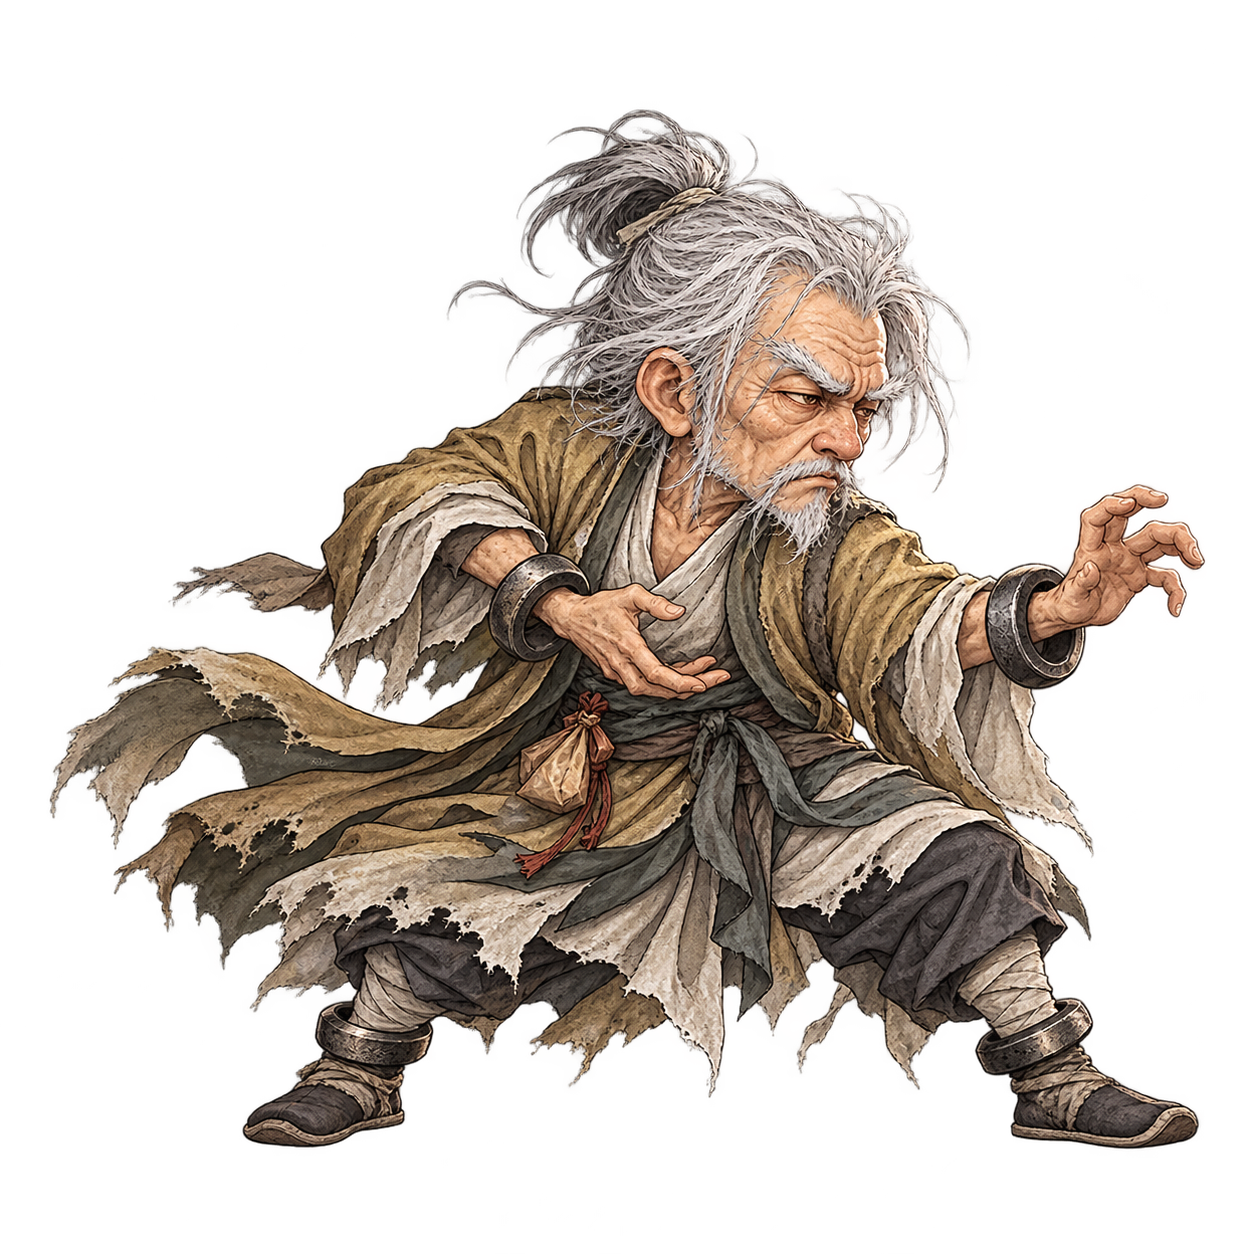
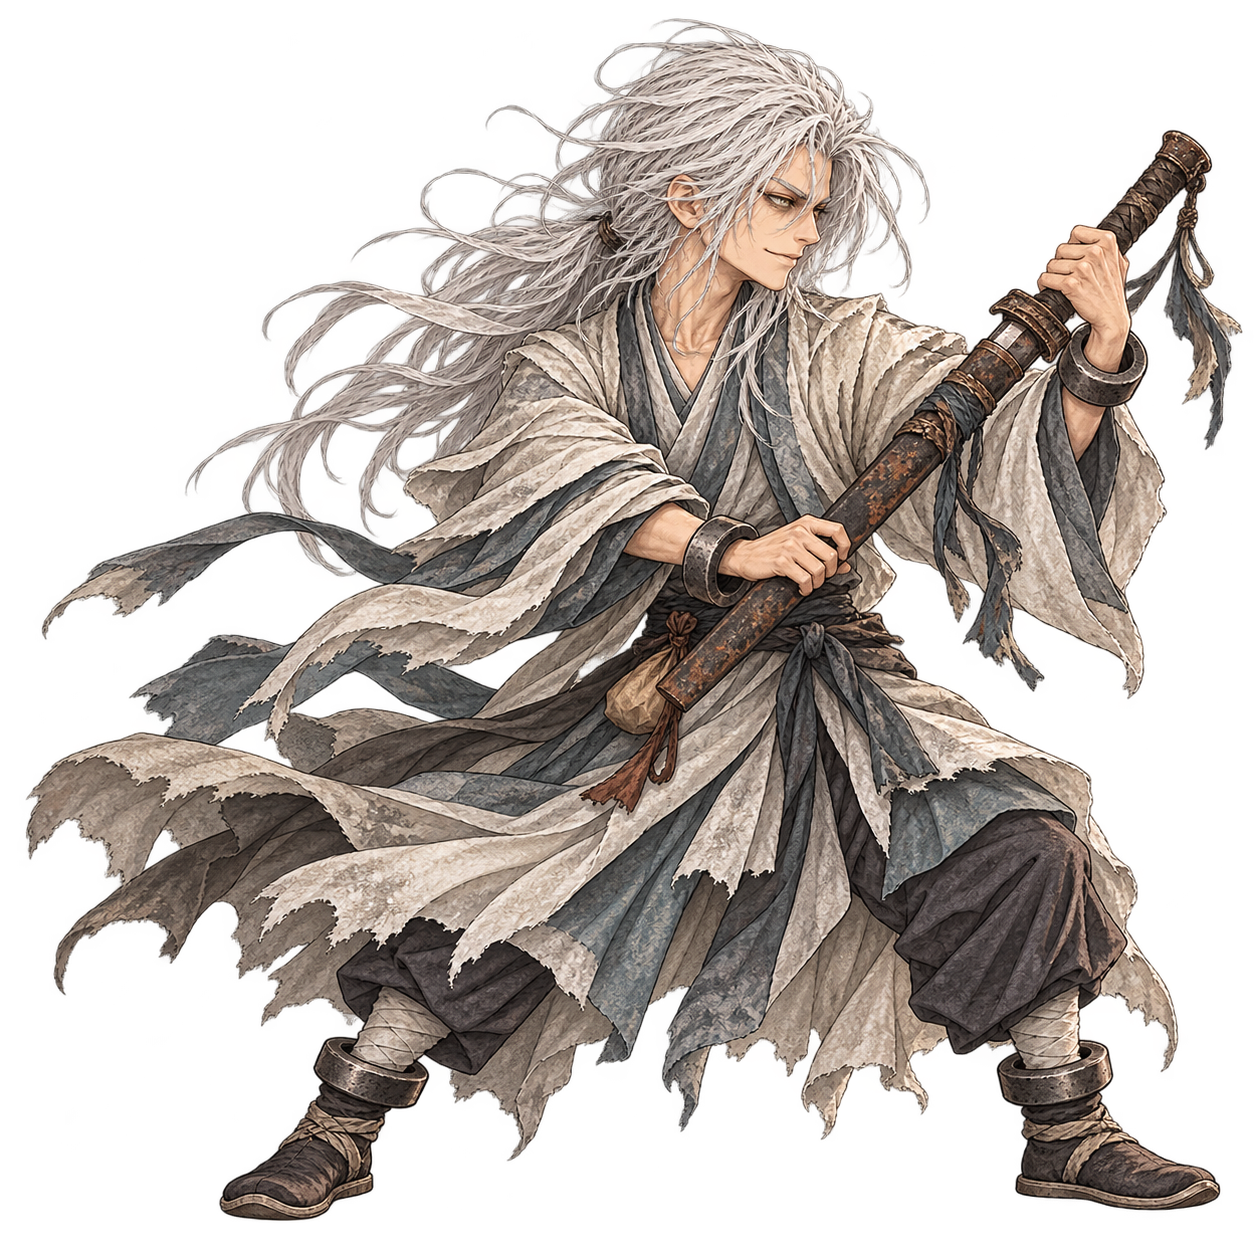
Redesign Mumyeong battle sprite with ageless features and rusted sword

diff --git a/Docs/ART_LOOKS.md b/Docs/ART_LOOKS.md
@@ -335,7 +335,7 @@
 | 인물 / Battle 키 | 원작·기존 원화에서 확인한 요소 | 이번 미술 해석 |
 |---|---|---|
 | 나일천 / `na_ilcheon` | 적포·가면·상실한 오른팔과 철갑마수 서풍의 광란, 나백천에 대한 증오(24~27권) | 쇠빛 반가면·예민한 눈·회흑색 머리, 붉은 겹옷과 크게 뻗은 단일 금속 조수. 정상 살색 손은 왼손 하나로 구분 |
-| 무명 / `mumyeong` | 육번대 노인·기억 상실·엿·봉신환·무흔권/무상장/무형검(25~27권) | 작은 마른 체구·굽은 등·깊은 주름과 큰 코, 피곤하지만 날카로운 눈·헝클어진 백발, 낡은 황토 회색 옷, 손목·발목 고리, 허리의 작은 엿 봉지와 맨손 자세 |
+| 무명 / `mumyeong` | 기억 상실·엿·봉신환·무흔권/무상장/무형검(25~27권), 최신 사용자 정정: 백발·주름 없는 40대 초중반 인상·생사안·녹슨 검과 칼집 | 아래 「무명 사용자 설정 반영」의 수정본으로 대체. 깊은 주름·굽은 등·수염·맨손 대표 자세를 제거 |
 | 칠상흔 / `chil_sangheun` | 얼굴의 일곱 상처·검은 관과 쇠사슬·반 토막 도, 죄책감과 억눌린 과거(22~24권) | 넓은 어깨·굵은 팔·투박한 수염과 상처 난 얼굴, 먹색·암갈색·암홍 복식, 관을 진 낮고 무거운 도 자세 |
 | 독고령 / 영령 / `dokgo_ryeong` | 왼눈 안대·검각의 기억과 한빙기, 현재 Standing의 검은 머리·봉황 장식·자주/먹색/올리브/백색 겹옷(3·15~17·23~24권) | 날카로운 경계의 눈매·굳은 표정·몸 가까이 붙인 수비 검 자세, 헤어·안대·복식의 기존 정체성 보존 |
 | 공손절휘 / `gongson_jeolhwi` | 19세 공손가 후계자·지존검법·가문 숙원·모용휘에 대한 경쟁심, 현재 Standing의 상아/남청/금/암홍 복식과 옥장식(19~20·23~27권) | 치켜든 눈썹·각진 턱·꼿꼿하고 성급한 검 자세, 높은 상투와 붉은 머리끈, 귀공자의 단정한 복식을 유지 |
@@ -345,3 +345,16 @@
 `gongson_ambush.ArtId`를 동일 인물의 정식 키 `gongson_jeolhwi`로 연결해 완장 습격전과 대장 선출전에서 전용 SD를 공유한다. 표시 이름·정체 공개 대사·전투 수치·진행·보상은 변경하지 않는다. 나머지 4명은 기존 ArtId로 자동 연결된다. 기존 Standing과 다른 인물의 SD·default 파일은 보존한다.
 
 검증: 5종 PNG는 모두 1254×1254 RGBA이며 실제 인물·무기 영역이 캔버스 안에 들어 있다. 네 모서리 알파는 0이며 나일천의 좌하단만 1/255의 미세 노이즈다. 이미지 중복·Unity GUID 중복이 없다. 실제 `ArtLibrary` 소스와 파일 기반 Resources 대역 검사에서 5개 키·15개 적 변형이 전용 SD로 연결되고 세 default 유형은 유지된다. Core 빌드와 기존 StoryCast 인물 식별 검사가 통과했다. Unity 에디터의 실제 합성·좌우 반전·전투 칸 크기는 확인하지 못했다.
+
+
+### 무명 사용자 설정 반영 — 2026-11-01
+
+사용자가 제공한 외모·성격 해석을 우선해 `Battle/mumyeong.png`를 다시 그렸다. 종전 노쇠한 노인 디자인은 폐기한다. 백발이지만 주름과 수염이 없는 40대 초중반의 동안, 마이페이스와 기억 혼란, 비류연도 끝을 가늠하지 못하는 실력, 생사안, 녹슨 검이나 거의 뽑히지 않은 칼집으로 공격을 막는 특징을 반영한다.
+
+- 얼굴·체형: 백발과 매끈한 성인 얼굴, 길고 각진 골격·깊은 시선, 수염 없는 턱, 굽지 않은 가벼운 자세. 청소년 얼굴이나 노인의 주름으로 표현하지 않는다.
+- 성격·위압감: 희미하고 비대칭인 미소·여유로운 시선과 힘들이지 않은 방어 자세로, 종잡기 어려우면서 비류연과 대등한 라이벌 분위기를 표현한다. 기억 혼란을 우스꽝스러운 표정으로 과장하지 않는다.
+- 생사안: 옅은 회녹·금회색 눈동자의 작은 명암으로 시선을 강조한다. 이 색은 게임용 미술 해석이며 원작의 확정된 눈 색으로 주장하지 않는다.
+- 무기·복식: 조금만 드러난 녹슨 칼과 오래된 칼집, 회백색·회청색의 낡은 겹옷, 손목·발목 봉신환과 작은 엿 봉지. 비류연의 검정·암홍색과 구별되는 밝은 실루엣을 사용한다.
+- 천겁혈신(위천무), 동문/사제, 비뢰문 인물이라는 추측은 정체로 확정하지 않는다. 특정 문파 문양·신분 장식·새 대사·전투 효과를 추가하지 않는다.
+
+기존 Battle 경로·Unity `.meta`·GUID를 유지했다. 1254×1254 RGBA이며 네 모서리는 완전 투명이고, 무기·머리·발의 가시 영역은 캔버스 안에 들어 있다. 기존 세 전투 변형은 같은 `mumyeong` ArtId를 유지한다. Unity 실제 렌더링은 확인하지 못했다.

diff --git a/Story/GAME_MAPPING.md b/Story/GAME_MAPPING.md
@@ -1005,3 +1005,8 @@ Standing에 남아 있던 한글 파일명 23건도 영문 키로 변경했다. 
 - 독고령·공손절휘는 현재 Standing을 참조하고 나머지 세 인물은 입화가 없어 분석의 확인 요소를 기준으로 디자인했다. 원작 특징과 미술 해석은 [ART_LOOKS.md](../Docs/ART_LOOKS.md)의 같은 날짜 1차 표에서 구분한다. 무명의 정체나 백천절의 동일성을 새로 확정하지 않는다.
 - 칠상흔은 일곱 얼굴 상처·검은 관·쇠사슬·부러진 도의 대표 모습이다. 후기 쌍도 단계에 별도 변신 SD를 추가하지 않는다.
 - 완장 습격자 `gongson_ambush.ArtId`를 같은 인물의 `gongson_jeolhwi`에 연결한다. 나머지 전투 변형은 기존 ArtId를 사용한다. 새 사건·무공·능력치·보상·정체 공개 대사는 추가하지 않는다.
+
+
+### 무명 전투 SD 사용자 정정 — 2026-11-01
+
+`Battle/mumyeong.png`를 사용자가 지정한 백발·주름 없는 40대 초중반 인상, 생사안, 녹슨 검/칼집의 여유로운 방어 자세로 교체했다. 종전 노쇠한 외형을 대체하며 `.meta`·GUID·전투 ArtId와 수치는 유지한다. 정체에 관한 천겁혈신·동문/사제·비뢰문 관련 추측은 확정하지 않는다. 디자인 근거와 해석은 [ART_LOOKS.md](../Docs/ART_LOOKS.md)의 「무명 사용자 설정 반영」을 따른다.
